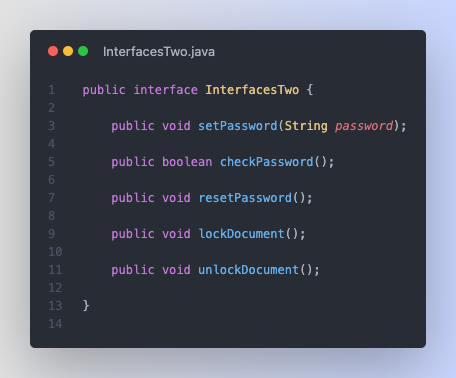
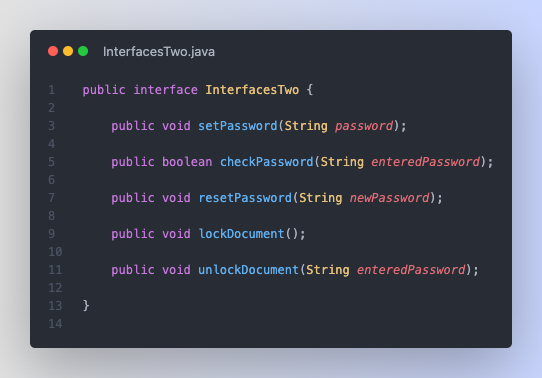
Fixed

diff --git a/interfaces-abstract-classes-assignment/InterfacesOne.java b/interfaces-abstract-classes-assignment/InterfacesOne.java
@@ -24,6 +24,8 @@ public class InterfacesOne implements PhoneBook {
                 // (assuming it's the format of "<name> <number>")
                 String[] parts = line.split(" ");
 
+                System.out.println("Name: " + parts[0] + " Number: " + parts[1] + "");
+
                 // now just set the name and number to the arrays
                 names[currentIndex] = parts[0];
                 numbers[currentIndex] = parts[1];
@@ -44,9 +46,9 @@ public class InterfacesOne implements PhoneBook {
 
         // for each name in the array, check if it's the same as the entered name
         // if it is, return the number at the same index in the numbers array
-        for (String name : names) {
-            if (name.equals(enteredName)) {
-                return numbers[currentIndex];
+        for (int i = 0; i < names.length; i++) {
+            if (names[i] == (enteredName)) {
+                return numbers[i];
             }
         }
 
@@ -58,9 +60,9 @@ public class InterfacesOne implements PhoneBook {
 
         // for each number in the array, check if it's the same as the entered number
         // if it is, return the name at the same index in the names array
-        for (String number : numbers) {
-            if (number.equals(enteredNumber)) {
-                return names[currentIndex];
+        for (int i = 0; i < numbers.length; i++) {
+            if (numbers[i] == enteredNumber) {
+                return names[i];
             }
         }
 
@@ -73,7 +75,7 @@ public class InterfacesOne implements PhoneBook {
         InterfacesOne phonebook = new InterfacesOne();
         phonebook.ReadInfo();
         // testing the methods;
-        System.out.println(phonebook.FindNumber("Test"));
+        System.out.println(phonebook.FindNumber("Dhairya"));
         System.out.println(phonebook.FindName("123456789"));
     }
 }

diff --git a/interfaces-abstract-classes-assignment/AbstractClassesOne.java b/interfaces-abstract-classes-assignment/AbstractClassesOne.java
@@ -2,7 +2,6 @@ import java.util.Scanner;
 
 public class AbstractClassesOne extends IComboLock {
     public static void main(String[] args) {
-
         // setup the lock and lock it
         AbstractClassesOne lock = new AbstractClassesOne();
         lock.setcombo(1, 2, 3);
@@ -33,8 +32,8 @@ public class AbstractClassesOne extends IComboLock {
         if (num1 == combo[0] && num2 == combo[1] && num3 == combo[2]) {
             locked = false;
             System.out.println("Unlocked Successfully!");
-        }
-        System.out.println("Incorrect Combination, try again.");
+        } else
+            System.out.println("Incorrect Combination, try again.");
     }
 
 }

diff --git a/interfaces-abstract-classes-assignment/InterfacesTwo.java b/interfaces-abstract-classes-assignment/InterfacesTwo.java
@@ -2,12 +2,12 @@ public interface InterfacesTwo {
 
     public void setPassword(String password);
 
-    public boolean checkPassword();
+    public boolean checkPassword(String enteredPassword);
 
-    public void resetPassword();
+    public void resetPassword(String newPassword);
 
     public void lockDocument();
 
-    public void unlockDocument();
+    public void unlockDocument(String enteredPassword);
 
 }

diff --git a/interfaces-abstract-classes-assignment/readme.md b/interfaces-abstract-classes-assignment/readme.md
@@ -90,8 +90,8 @@ public void unlock(int num1, int num2, int num3) {
     if (num1 == combo[0] && num2 == combo[1] && num3 == combo[2]) {
         locked = false;
         System.out.println("Unlocked Successfully!");
-    }
-    System.out.println("Incorrect Combination, try again.");
+    } else
+        System.out.println("Incorrect Combination, try again.");
 }
 ```
 
